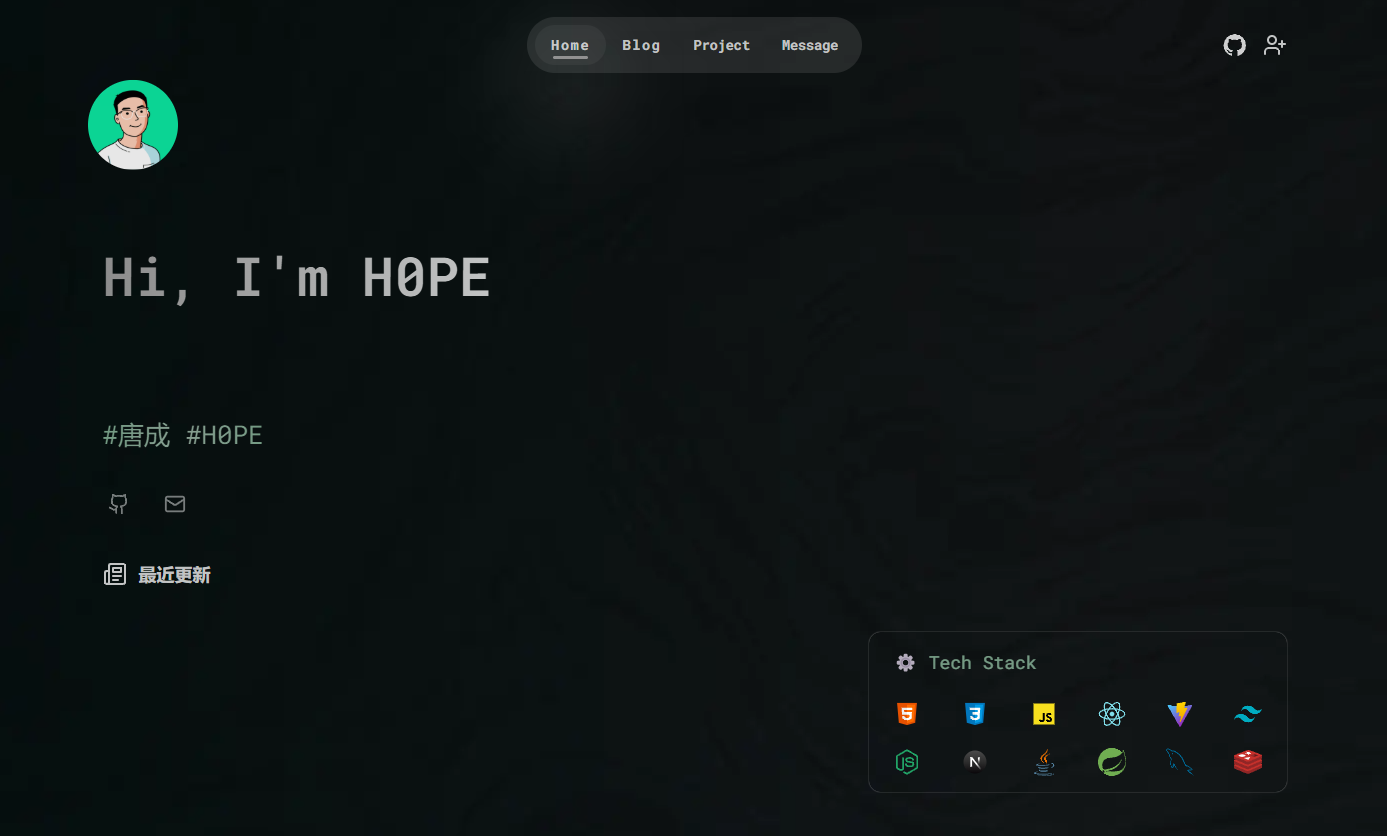
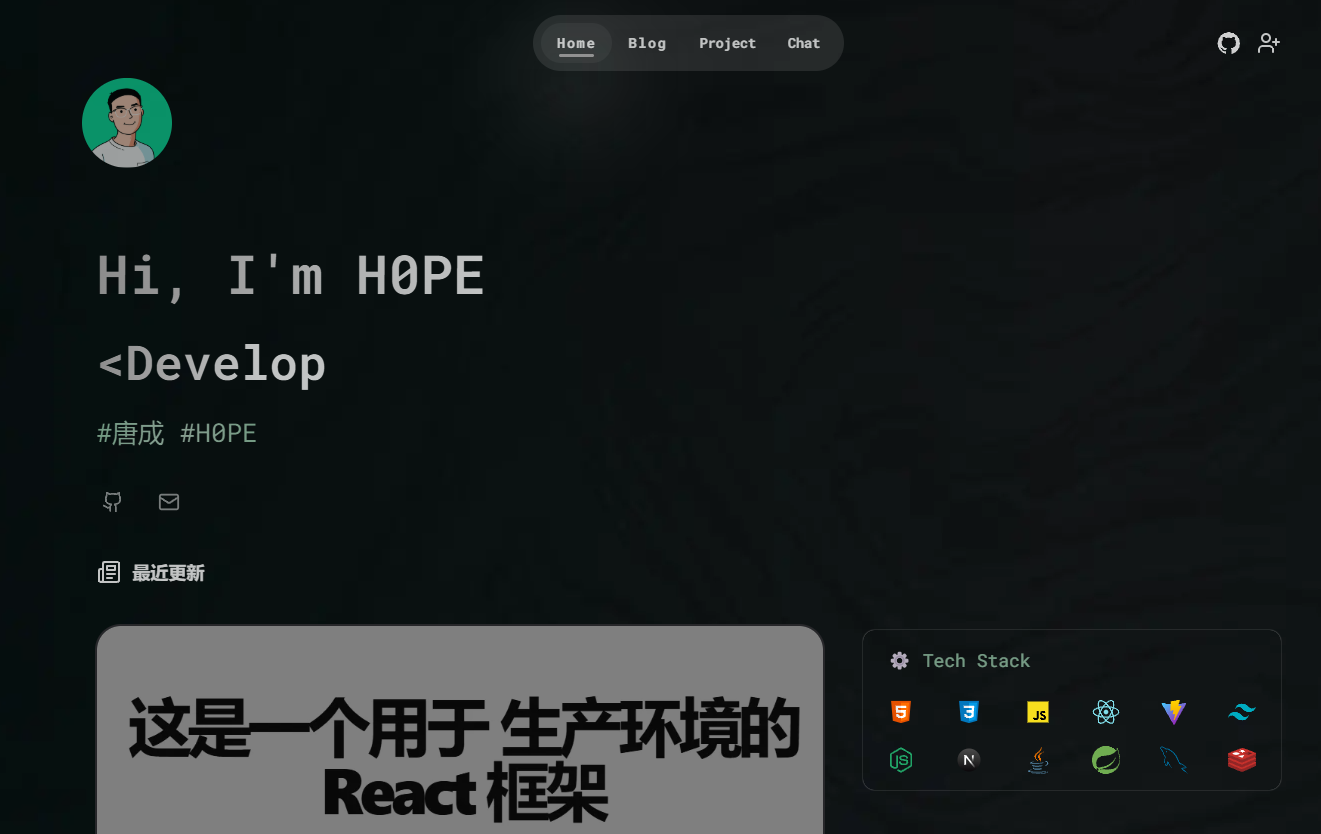
ai聊天完成！

diff --git a/app/api/chat/route.ts b/app/api/chat/route.ts
@@ -1,6 +1,4 @@
 import { NextResponse } from 'next/server';
-import {SSEResponseModel} from "tencentcloud-sdk-nodejs-common/tencentcloud/common/sse_response_model";
-import useSWR from "swr";
 const tencentcloud = require("tencentcloud-sdk-nodejs-lkeap");
 
 const clientConfig = {
@@ -16,71 +14,90 @@ const clientConfig = {
     },
 };
 
-const params = {
-    Model: 'deepseek-r1',
-    Messages: [
-        {
-            Role: 'user',
-            Content: '9.9和9.11谁大？',
-        },
-    ],
-    Stream: true,
-};
-
-// API 处理函数
 export async function POST(req: Request) {
-    let reasoningContent = ""; // 定义完整思考过程
-    let answerContent = ""; // 定义完整回复
-    let isAnswering = false; // 判断是否结束思考过程并开始回复
+    const { messages } = await req.json();
 
-    // 获取腾讯云 LKEAP 客户端
-    const LkeapClient = tencentcloud.lkeap.v20240522.Client;
-    const client = new LkeapClient(clientConfig);
+    try {
+        const LkeapClient = tencentcloud.lkeap.v20240522.Client;
+        const client = new LkeapClient(clientConfig);
 
-    // 获取流式数据
-    const res: SSEResponseModel = await client.ChatCompletions(params);
+        const params = {
+            Model: "deepseek-r1",
+            Messages: messages.map((message: any) => ({
+                Content: message.content,
+                Role: message.role,
+            })),
+            Stream: true,
+        };
 
-    for await (const { data } of res) {
-        let chunk
-        if (data !== "[DONE]"){
-            chunk = JSON.parse(data);
-        }else {
-            process.stdout.write("/n");
-        }
+        const res = await client.ChatCompletions(params);
 
-        if (!chunk?.Choices?.length) {
-            continue;
-        }
+        const encoder = new TextEncoder();
 
-        const delta = chunk.Choices[0].Delta;
+        const stream = new ReadableStream({
+            async start(controller) {
+                let isAnswering = false;
 
-        // 处理空内容情况
-        if (!delta.ReasoningContent && !delta.Content) {
-            continue;
-        }
+                try {
+                    for await (const { data } of res) {
+                        if (data === "[DONE]") {
+                            break;
+                        }
 
-        // 处理开始回答的情况
-        if (!delta.ReasoningContent && !isAnswering) {
-            console.log("\n" + "=".repeat(20) + "完整回复" + "=".repeat(20) + "\n");
-            isAnswering = true;
-        }
+                        let chunk;
+                        try {
+                            chunk = JSON.parse(data);
+                        } catch (err) {
+                            console.error("解析 JSON 失败:", err);
+                            continue;
+                        }
 
-        // 处理思考过程
-        if (delta.ReasoningContent) {
-            process.stdout.write(delta.ReasoningContent);
-            reasoningContent += delta.ReasoningContent;
-        }
-        // 处理回复内容
-        else if (delta.Content) {
-            process.stdout.write(delta.Content);
-            answerContent += delta.Content;
-        }
+                        if (!chunk?.Choices?.length) {
+                            continue;
+                        }
+
+                        const delta = chunk.Choices[0].Delta;
+
+                        if (!delta.ReasoningContent && !delta.Content) {
+                            continue;
+                        }
+
+                        if (!delta.ReasoningContent && !isAnswering) {
+                            isAnswering = true;
+                            console.log("\n" + "=".repeat(20) + "完整回复" + "=".repeat(20) + "\n");
+                        }
+
+                        if (delta.ReasoningContent) {
+                            process.stdout.write(delta.ReasoningContent);
+                            controller.enqueue(encoder.encode("__SYSTEM_LOADING__"));
+                        }
+
+                        if (delta.Content) {
+                            process.stdout.write(delta.Content);
+                            controller.enqueue(encoder.encode(delta.Content));
+                        }
+                    }
+                } catch (err) {
+                    console.error("流处理失败:", err);
+                    controller.enqueue(encoder.encode("data: 服务器错误\n\n"));
+                } finally {
+                    controller.close();
+                }
+            },
+        });
+
+        return new Response(stream, {
+            headers: {
+                "Content-Type": "text/event-stream",
+                "Cache-Control": "no-cache",
+                "Connection": "keep-alive",
+                "Transfer-Encoding": "chunked",
+            },
+        });
+    } catch (error) {
+        console.error("请求失败:", error);
+        return NextResponse.json({ error: "请求失败" }, { status: 500 });
     }
-
-    // 返回响应
-    return NextResponse.json({
-        message: answerContent,
-    });
 }
 
 export async function GET() {

diff --git a/app/chat/page.tsx b/app/chat/page.tsx
@@ -1,11 +1,10 @@
 "use client"
 import MessageCard from "@/components/MessageCard";
 import {useChat} from "@/hooks/useChat";
-import {ChangeEvent, FormEvent} from "react";
+import {ChangeEvent, FormEvent, useEffect, useRef} from "react";
 import MotionDivWrapper from "@/components/MotionDivWrapper";
 import Description from "@/components/Description";
-import {RedirectToSignIn, useClerk, useUser} from "@clerk/nextjs";
-import {auth} from "@clerk/nextjs/server";
+import { useClerk } from "@clerk/nextjs";
 
 export type Message = {
     id: string;
@@ -16,16 +15,32 @@ export type Message = {
 
 const Chat = () => {
     const { openSignIn, user } = useClerk()
+    const textareaRef = useRef<HTMLTextAreaElement>(null);
 
     const {
         messages,
         input,
         setInput,
         append,
+        thinking
     } = useChat({})
+
+    useEffect(() => {
+        textareaRef.current!.addEventListener("keydown", e => {
+            if (e.key == "Enter" && !e.shiftKey) {
+                e.preventDefault();
+                textareaRef.current!.form!.dispatchEvent(
+                    new Event("submit", {bubbles: true, cancelable: true})
+                )
+            }
+        })
+    }, [])
 
     const handleInputChange = (e: ChangeEvent<HTMLInputElement> | ChangeEvent<HTMLTextAreaElement>) => {
       setInput(e.target.value);
+      const textarea = e.target;
+      textarea.style.height = "auto";
+      textarea.style.height = textarea.scrollHeight + "px";
     }
 
     const handleSubmit = async (event: FormEvent<HTMLFormElement>) => {
@@ -66,11 +81,13 @@ const Chat = () => {
             <div className="w-full">
                 <div className="p-4 rounded-3xl bg-[#303030]">
                     <form onSubmit={handleSubmit} className="flex space-x-2">
-                        <input
+                        <textarea
+                            ref={textareaRef}
                             value={input}
                             onChange={handleInputChange}
-                            className="w-full p-2 rounded bg-[#303030] focus: outline-none"
+                            className="resize-none max-h-52 scrollbar scrollbar-thumb-muted-foreground scrollbar-track-muted w-full p-2 rounded bg-[#303030] focus: outline-none"
                             placeholder="随便说点什么..."
+                            rows={1}
                         />
                     </form>
                 </div>

diff --git a/components/MessageCard/index.tsx b/components/MessageCard/index.tsx
@@ -3,12 +3,28 @@ import {Message} from "@/components/MessageCard/type";
 import {markdownToHTML} from "@/lib/marked";
 import ContentBlock from "@/components/MessageCard/ContentBlock";
 import avatarImg from "@/public/images/avatar.png";
-import Image from "next/image";
+import Image, {StaticImageData} from "next/image";
 import {useUser} from "@clerk/nextjs";
+import {useEffect, useMemo} from "react";
 
 interface MessageCardProps {
     message: Message;
 }
+
+const Icon = ({ imgSrc, hidden=false }: {imgSrc: string | StaticImageData, hidden?: boolean}) => {
+    return useMemo(() => (
+            <Image
+                src={imgSrc}
+                alt="avatar"
+                width={60}
+                height={60}
+                unoptimized
+                className={classNames({["hidden"]: hidden}, "decoration-100 rounded-full opacity-60 hover:opacity-90")}
+            />
+        )
+    , [imgSrc])
+}
+
 
 const MessageCard = ({ message }: MessageCardProps) => {
     const { user } = useUser()
@@ -18,26 +34,14 @@ const MessageCard = ({ message }: MessageCardProps) => {
 
     return (
         <div key={message.id} className="mt-4">
+            <Icon imgSrc={imageUrl} hidden />
             <div className={classNames("flex items-start", message.role === 'user' ? 'justify-end' : '')}>
                 {message.role === 'assistant' && (
-                    <Image
-                        src={avatarImg}
-                        alt="avatar"
-                        width={60}
-                        unoptimized
-                        className="decoration-100 rounded-full opacity-60 hover:opacity-90"
-                    />
+                    <Icon imgSrc={avatarImg} />
                 )}
                 <ContentBlock content={content as string} />
                 {message.role === 'user' && (
-                    <Image
-                        src={imageUrl}
-                        alt="avatar"
-                        width={60}
-                        height={60}
-                        unoptimized
-                        className="decoration-100 rounded-full opacity-60 hover:opacity-90"
-                    />
+                    <Icon imgSrc={imageUrl} />
                 )}
             </div>
         </div>

diff --git a/hooks/useChat.ts b/hooks/useChat.ts
@@ -69,8 +69,8 @@ export function useChat({
                 }))
 
                 const res = await fetch(api, {
-                    method: "GET",
-                    // body: JSON.stringify({messages: body}),
+                    method: "POST",
+                    body: JSON.stringify({messages: body}),
                 }).catch((error) => {
                     // 如果报错了，回退到上一次的消息列表
                     mutate(previousMessages, false);
@@ -90,18 +90,33 @@ export function useChat({
                     throw new Error('The response body is empty.');
                 }
 
+                let result = "";
                 const createdAt = new Date();
                 const replyId = nanoid();
-                const data = await res.json()
+                const reader = res.body.getReader();
+                const decoder = new TextDecoder();
 
-                mutate([...messagesSnapshot, {
-                    id: replyId,
-                    createdAt: createdAt,
-                    content: data.message,
-                    role: 'assistant',
-                }], false)
+                while (true) {
+                    const { done, value } = await reader.read();
 
-                return data.message;
+                    if (done) {
+                        reader.releaseLock()
+                        break;
+                    }
+
+                    const newRes = decoder.decode(value)
+
+                    result += newRes.replace(/__SYSTEM_LOADING__/g, "");
+
+                    mutate([...messagesSnapshot, {
+                        id: replyId,
+                        createdAt: createdAt,
+                        content: result,
+                        role: 'assistant',
+                    }], false);
+                }
+
+                return result;
             } catch (error) {
                 console.error(error);
                 throw error;

diff --git a/components/MessageCard/ContentBlock.tsx b/components/MessageCard/ContentBlock.tsx
@@ -6,8 +6,8 @@ interface Props {
 
 const ContentBlock:FC<Props> = ({ content }) => {
   return(
-      <div className="ml-4">
-          <div className="mt-4 mx-2 prose prose-invert" dangerouslySetInnerHTML={{__html: content}}/>
+      <div className="m-4 bg-zinc-900 rounded-3xl">
+          <div className="m-4 prose prose-invert break-words" dangerouslySetInnerHTML={{__html: content}}/>
       </div>
   )
 }

diff --git a/components/BlogPosts/index.tsx b/components/BlogPosts/index.tsx
@@ -9,7 +9,6 @@ const BlogPosts = async ({ limit=5 }) => {
     const postIdKeys = posts.map(({ _id }) => kvKeys.postViews(_id))
 
     let views: number[] = []
-    console.log(env.VERCEL_ENV)
     if (env.VERCEL_ENV === 'production') {
         if (postIdKeys.length > 0) {
             views = await redis.mget<number[]>(...postIdKeys)

diff --git a/app/not-found.tsx b/app/not-found.tsx
@@ -4,7 +4,7 @@ import {useEffect} from "react";
 
 export default function Error({ error }: { error: Error }) {
     useEffect(() => {
-        console.log(error)
+        console.error(error)
     }, [error]);
 
     return (

diff --git a/README.md b/README.md
@@ -16,6 +16,7 @@
 - 会话缓存：**Upstash Redis**
 - 内容管理系统：**Sanity**
 - 认证：**Clerk**
+- 大语言模型：**DeepSeek**
 - 部署：**Vercel**
 
 ## 💡快速开始
@@ -55,6 +56,10 @@ CLERK_SECRET_KEY=
 UPSTASH_REDIS_REST_TOKEN=""
 UPSTASH_REDIS_REST_URL=""
 
+#Tencent cloud
+TENCENT_CLOUD_SECRET_ID=""
+TENCENT_CLOUD_SECRET_KEY=""
+
 ```
 
 现在我们需要设置所有的环境变量。
@@ -70,6 +75,10 @@ UPSTASH_REDIS_REST_URL=""
 1. 前往 [Sanity官网](https://www.sanity.io/manage) 获取project id，并将其赋值给 .env 文件中的 NEXT_PUBLIC_SANITY_ID。
 
 2. 打开 [localhost:3000/studio](http://localhost:3333/studio)，现在可以向网站添加项目了。
+
+#### Tencent Cloud
+1. 前往 [腾讯云官网](https://cloud.tencent.com/document/product/1772/115970) 获取API KEY和ID，并将其赋值给 .env 文件中的 TENCENT_CLOUD_SECRET_KEY 和 TENCENT_CLOUD_SECRET_ID。
+
 
 ### 启动服务器
 
